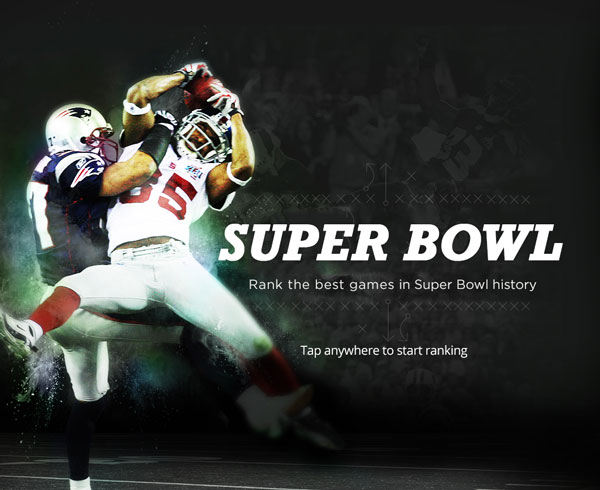
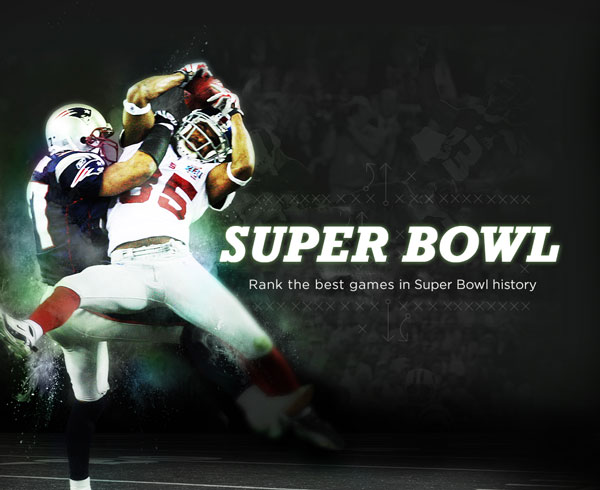
updated landing page text

Changed region(s): [[0.36, 0.4286, 0.96, 0.551], [0.48, 0.7041, 0.78, 0.7347]]

diff --git a/www/js/scripts.js b/www/js/scripts.js
@@ -11,9 +11,11 @@ function makeid()
 }
 if(/Android|webOS|iPhone|iPad|BlackBerry|IEMobile|Opera Mini/i.test(navigator.userAgent) ) {
   $(".callout").html("THE SUPER BOWL");
-  $("#banner").html('<img alt="" id="banner-image" style="width: 100%" src="images/superbowl-landing-page-mobile.jpg">');
+  $("#banner").html('<img alt="" id="banner-image" style="width: 100%" src="images/superbowl-landing-page-mobile.jpg">\
+    <p id="landing-text">Tap anywhere to start ranking</p>');
 }else{
-  $("#banner").html('<img alt="" id="banner-image" style="width: 100%" src="images/superbowl-landing-page.jpg">');
+  $("#banner").html('<img alt="" id="banner-image" style="width: 100%" src="images/superbowl-landing-page.jpg">\
+    <p id="landing-text">Click anywhere to start ranking</p>');
 }
  
   function makeid()
